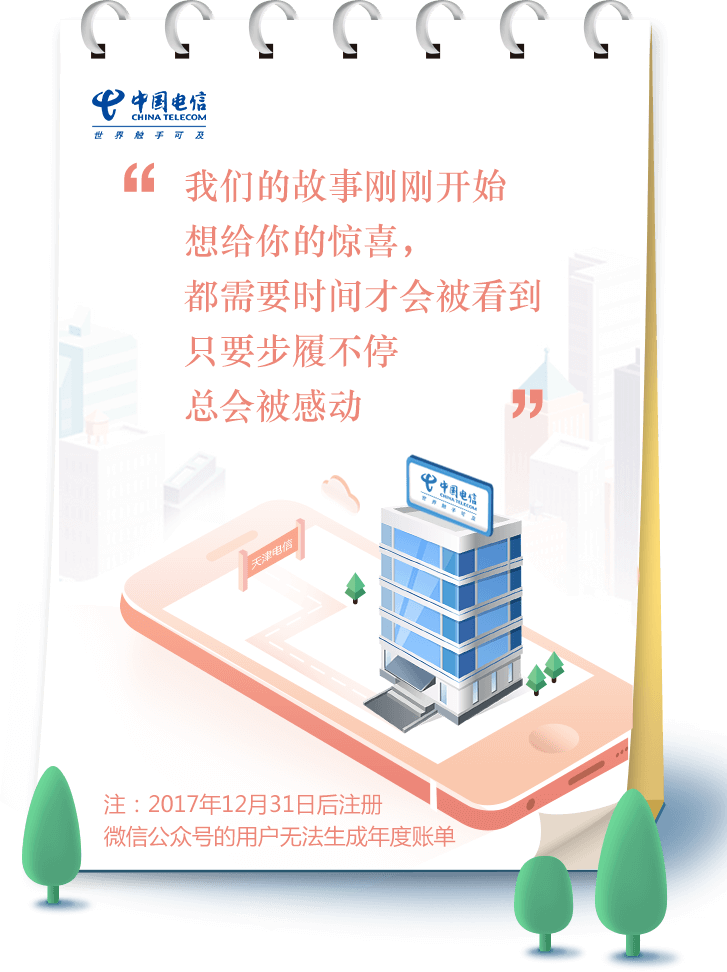
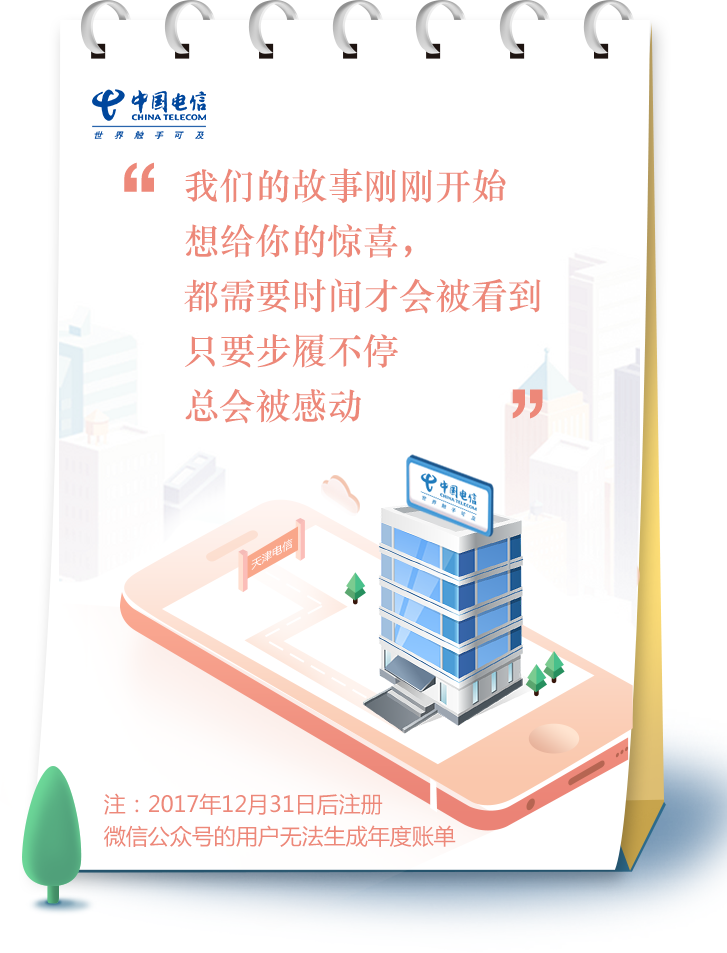
1

diff --git a/css/styles.less b/css/styles.less
@@ -307,11 +307,11 @@ footer{
     right: 0;
     >div{
       width: 7.27rem;
-      height: 9.72rem;
+      height: 9.53rem;
     }
     span{
       position: absolute;
-      bottom: -1rem;
+      bottom: -.6rem;
       width: 3.14rem;
       height: 1.2rem;
       background: url("../images/ljBtn.png") center no-repeat;
@@ -321,7 +321,7 @@ footer{
       position: absolute;
       left: 0;
       right: 0;
-      bottom: -1.1rem;
+      bottom: -.9rem;
       margin: auto;
       width: 1.05rem;
       height: .26rem;

diff --git a/index.html b/index.html
@@ -7,8 +7,8 @@
     <title>Title</title>
     <link rel="stylesheet" href="css/reset.min.css">
     <link rel="stylesheet/less" type="text/css" href="css/styles.less" />
-    <link rel="stylesheet" href="css/style.min.css">
-    <!--<script src="js/less-1.7.0.min.js"></script>-->
+    <!--<link rel="stylesheet" href="css/style.min.css">-->
+    <script src="js/less-1.7.0.min.js"></script>
     <script src="js/jquery-1.10.1.min.js"></script>
     <!--<script charset="utf-8" type="text/javascript">
         var less = {

diff --git a/css/styles.css b/css/styles.css
@@ -303,11 +303,11 @@ footer > div {
 }
 footer > div > div {
   width: 7.27rem;
-  height: 9.72rem;
+  height: 9.53rem;
 }
 footer > div span {
   position: absolute;
-  bottom: -1rem;
+  bottom: -0.6rem;
   width: 3.14rem;
   height: 1.2rem;
   background: url("../images/ljBtn.png") center no-repeat;
@@ -317,7 +317,7 @@ footer > div i {
   position: absolute;
   left: 0;
   right: 0;
-  bottom: -1.1rem;
+  bottom: -0.9rem;
   margin: auto;
   width: 1.05rem;
   height: .26rem;
